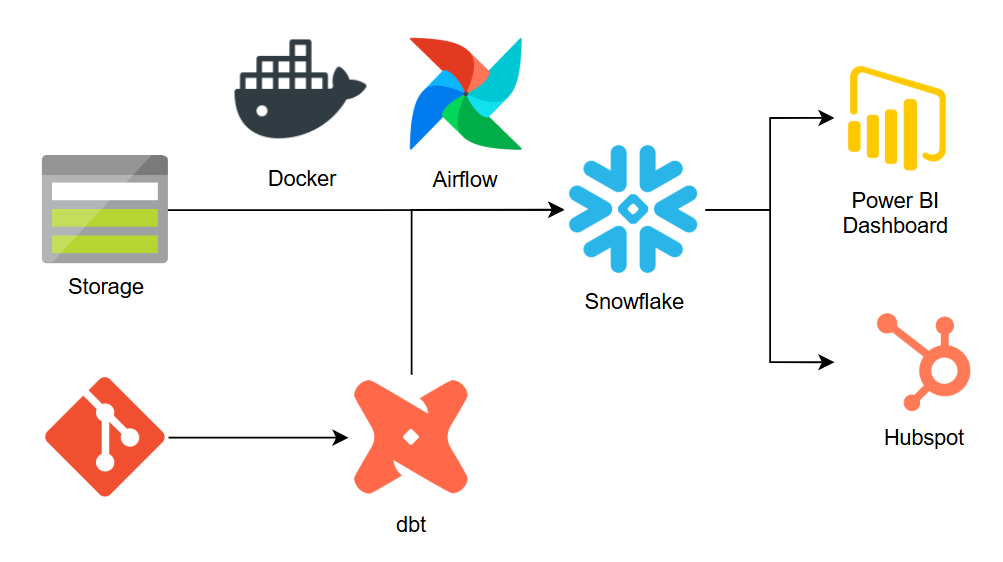
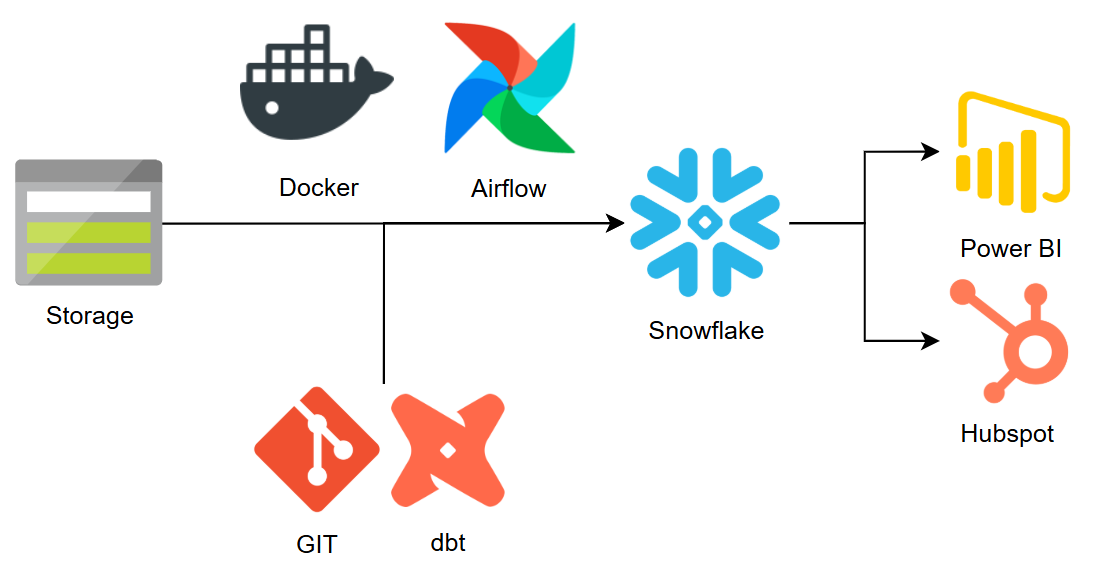
Updated colour + dark theme

diff --git a/src/components/ContactSection.vue b/src/components/ContactSection.vue
@@ -3,24 +3,65 @@
     <div class="max-w-7xl mx-auto px-4 sm:px-6 lg:px-8">
       <h2 class="section-title">Get in Touch</h2>
       <div class="max-w-2xl mx-auto">
-        <form class="space-y-6">
+        <form 
+          class="space-y-6" 
+          data-netlify="true"
+          data-netlify-recaptcha="true"
+          name="contact"
+          method="POST"
+          @submit="handleSubmit"
+        >
+          <input type="hidden" name="form-name" value="contact" />
+          
+          <div v-if="formSubmitted" class="p-4 bg-green-100 text-green-700 rounded-lg">
+            Thank you for your message! I'll get back to you soon.
+          </div>
+          
+          <div v-if="formError" class="p-4 bg-red-100 text-red-700 rounded-lg">
+            Sorry, there was an error sending your message. Please try again.
+          </div>
+
           <div>
             <label for="name" class="block text-sm font-medium mb-2">Name</label>
-            <input type="text" id="name" name="name"
-              class="w-full px-4 py-2 rounded-lg border border-gray-300 dark:border-gray-600 bg-white dark:bg-gray-800 focus:ring-2 focus:ring-primary-500 focus:border-transparent">
+            <input 
+              type="text" 
+              id="name" 
+              name="name"
+              required
+              class="w-full px-4 py-2 rounded-lg border border-gray-300 dark:border-gray-600 bg-white dark:bg-gray-800 focus:ring-2 focus:ring-primary-500 focus:border-transparent"
+            >
           </div>
+          
           <div>
             <label for="email" class="block text-sm font-medium mb-2">Email</label>
-            <input type="email" id="email" name="email"
-              class="w-full px-4 py-2 rounded-lg border border-gray-300 dark:border-gray-600 bg-white dark:bg-gray-800 focus:ring-2 focus:ring-primary-500 focus:border-transparent">
+            <input 
+              type="email" 
+              id="email" 
+              name="email"
+              required
+              class="w-full px-4 py-2 rounded-lg border border-gray-300 dark:border-gray-600 bg-white dark:bg-gray-800 focus:ring-2 focus:ring-primary-500 focus:border-transparent"
+            >
           </div>
+          
           <div>
             <label for="message" class="block text-sm font-medium mb-2">Message</label>
-            <textarea id="message" name="message" rows="4"
-              class="w-full px-4 py-2 rounded-lg border border-gray-300 dark:border-gray-600 bg-white dark:bg-gray-800 focus:ring-2 focus:ring-primary-500 focus:border-transparent"></textarea>
+            <textarea 
+              id="message" 
+              name="message" 
+              rows="4"
+              required
+              class="w-full px-4 py-2 rounded-lg border border-gray-300 dark:border-gray-600 bg-white dark:bg-gray-800 focus:ring-2 focus:ring-primary-500 focus:border-transparent"
+            ></textarea>
           </div>
-          <button type="submit"
-            class="w-full bg-primary-600 text-white py-3 px-6 rounded-lg hover:bg-primary-700 transition-colors">
+          
+          <div class="mb-4">
+            <div data-netlify-recaptcha="true"></div>
+          </div>
+          
+          <button 
+            type="submit"
+            class="w-full bg-primary-600 text-white py-3 px-6 rounded-lg hover:bg-primary-700 transition-colors"
+          >
             Send Message
           </button>
         </form>
@@ -28,3 +69,33 @@
     </div>
   </section>
 </template>
+
+<script setup lang="ts">
+import { ref } from 'vue'
+
+const formSubmitted = ref(false)
+const formError = ref(false)
+
+const handleSubmit = async (e: Event) => {
+  e.preventDefault()
+  try {
+    const form = e.target as HTMLFormElement
+    const formData = new FormData(form)
+    
+    const response = await fetch('/', {
+      method: 'POST',
+      headers: { 'Content-Type': 'application/x-www-form-urlencoded' },
+      body: new URLSearchParams(formData as any).toString()
+    })
+    
+    if (response.ok) {
+      formSubmitted.value = true
+      form.reset()
+    } else {
+      formError.value = true
+    }
+  } catch (error) {
+    formError.value = true
+  }
+}
+</script>

diff --git a/src/components/AboutSection.vue b/src/components/AboutSection.vue
@@ -2,49 +2,44 @@
   <section id="about" class="bg-gray-800">
     <div class="max-w-7xl mx-auto px-4 sm:px-6 lg:px-8">
       <h2 class="section-title">About me</h2>
-      <div class="grid md:grid-cols-2 gap-12 items-center">
-        <div class="space-y-6">
-          <div class="relative w-48 h-48 mx-auto mb-8 md:hidden">
-            <img src="/src/assets/profile.jpg" alt="Anne's Profile" class="rounded-full w-full h-full object-cover">
-            <div class="absolute inset-0 bg-primary-500 opacity-30 rounded-full"></div>
-          </div>
-          <p class="text-lg text-gray-300">
+      <div class="grid md:grid-cols-[3fr_1fr] gap-16 items-start py-8">
+        <div class="space-y-8">
+          <p class="text-lg text-gray-300 leading-relaxed">
             With a master in Molecular Medicine, Anne had a strong analytical background.
             Applying it to the Data Engineering field, she loved to solve issues at the core.
             Working in the Dutch market as a consultant, she gained valuable experience and knowledge
             in a handful of domains. 
             With an interest for sustainability and a international background, she became the Business 
             Intelligence lead for a Solar Startup in Berlin and later a Data Engineer for a large consultancy.
-            
           </p>
-          <p class="text-lg text-gray-300">
+          <p class="text-lg text-gray-300 leading-relaxed">
             With her broad experience, she is now on the solo journey as a freelancer who strives to 
             get you the data insights you need for your business to excel. Integrating
-            all your data into one centralized data platform, I implement Data as a Service (Daas)
+            all your data into one centralized data platform, I implement Data as a Service (DaaS)
             to work for you. From data to dashboard, she will get you the insights you need.
           </p>
         </div>
-        <div class="hidden md:block">
-          <div class="relative w-64 h-64 mx-auto">
-            <img src="/src/assets/profile.jpg" alt="Anne's Profile" class="rounded-full w-full h-full object-cover">
-            <div class="absolute inset-0 bg-primary-500 opacity-10 rounded-full"></div>
+        <div>
+          <div class="relative w-32 md:w-40 h-32 md:h-40 mx-auto">
+            <img src="/src/assets/profile.jpg" alt="Anne's Profile" class="rounded-full w-full h-full object-cover shadow-lg">
+            <div class="absolute inset-0 opacity-20 rounded-full"></div>
           </div>
-          <div class="grid grid-cols-2 gap-6 mt-8">
-            <div class="card">
-              <h3 class="text-xl font-semibold mb-2">6+ years</h3>
-              <p class="text-gray-400">Experience</p>
+          <div class="hidden md:grid grid-cols-2 gap-4 mt-8">
+            <div class="card p-4 text-center">
+              <h3 class="text-xl font-semibold mb-1">6+ years</h3>
+              <p class="text-gray-400 text-sm">Experience</p>
             </div>
-            <div class="card">
-              <h3 class="text-xl font-semibold mb-2">5</h3>
-              <p class="text-gray-400">Countries</p>
+            <div class="card p-4 text-center">
+              <h3 class="text-xl font-semibold mb-1">5</h3>
+              <p class="text-gray-400 text-sm">Countries</p>
             </div>
-            <div class="card">
-              <h3 class="text-xl font-semibold mb-2">6</h3>
-              <p class="text-gray-600">Projects</p>
+            <div class="card p-4 text-center">
+              <h3 class="text-xl font-semibold mb-1">6</h3>
+              <p class="text-gray-400 text-sm">Projects</p>
             </div>
-            <div class="card">
-              <h3 class="text-xl font-semibold mb-2">10+</h3>
-              <p class="text-gray-600">Tech Stack</p>
+            <div class="card p-4 text-center">
+              <h3 class="text-xl font-semibold mb-1">3</h3>
+              <p class="text-gray-400 text-sm">Industries</p>
             </div>
           </div>
         </div>

diff --git a/src/components/ProjectsSection.vue b/src/components/ProjectsSection.vue
@@ -2,48 +2,47 @@
 const projects = [
   {
     title: 'Data lakehouse development',
-    description: 'Led the migration of an on-premise data warehouse to Snowflake, implementing modern data modeling practices using dbt.',
-    subdescription: 'Built Power BI dashboards.',
-    technologies: ['Snowflake', 'dbt', 'Python', 'Airflow', 'Docker'],
-    metrics: 'Improved query performance by 80%',
-    image: '/src/assets/.png'
+    description: 'Developed a Gen3 data lakehouse in Databricks using Delta tables, \
+      optimizing Amazon APIs to enhance performance and enable efficient data ingestion.',
+    subdescription: 'Proof of concept utilizing AEP elements for CI/CD  <a href="https://medium.com/@rodenburg.bi/solving-aep-object-management-in-multiple-sandboxes-through-code-882b23ce5f18" target="_blank" class="text-moss-500 hover:underline">Check out the blog here</a>.',
+    technologies: ['Databricks', 'Adobe Experience Platform', 'Azure Data Factory', 'Delta tables', 'DevOps', 'GIT', 'Power BI', 'API enhancement'],
+    metrics: 'Improved workflow processes by 80%',
+    image: '/src/assets/Gen3_data_platform.png'
   },
   {
     title: 'Greenfield Data Warehouse',
     description: 'Led the migration of an on-premise data warehouse to Snowflake, whilst \
     also restructuring the data model to include best practices and data goverance using dbt.',
-    subdescription: 'Implemented automated feedback for CRM tools and built Power BI dashboards.',
+    subdescription: 'Implemented automated feedback for CRM tools',
     technologies: ['Snowflake', 'SQL', 'dbt', 'Azure ', 'Airflow', 'GIT', 'Power BI', 'Docker'],
-    metrics: 'Reduced data processing latency by 60%',
+    metrics: 'Established the Business Intelligence Department',
     image: '/src/assets/Gen2_data_platform.png'
   },
 ]
 </script>
 
 <template>
-  <section id="projects" class="bg-gray-800">
+  <section id="projects" class="bg-gray-800 py-24">
     <div class="max-w-7xl mx-auto px-4 sm:px-6 lg:px-8">
       <h2 class="section-title">Featured Projects</h2>
       <div class="grid md:grid-cols-2 lg:grid-cols-2 gap-8">
         <div v-for="(project, index) in projects" :key="index" 
-          class="card">
-          <h3 class="text-xl font-semibold mb-3">{{ project.title }}</h3>
+          class="card p-8">
+          <h3 class="text-2xl font-semibold mb-3">{{ project.title }}</h3>
+          <p class="text-moss-500 font-medium text-lg mb-4">
+            {{ project.metrics }}
+          </p>
           <p class="text-gray-300 mb-4">
             {{ project.description }}
           </p>
-          <p class="text-gray-300 mb-4">
-            {{ project.subdescription }}
-          </p>
-          <img v-if="project.image" :src="project.image" :alt="project.title" class="w-full h-80 object-cover rounded-lg mb-4">
-          <div class="flex flex-wrap gap-2 mb-4">
+          <p class="text-gray-300 mb-4" v-html="project.subdescription"></p>
+          <img v-if="project.image" :src="project.image" :alt="project.title" class="w-full h-70 object-cover rounded-lg mb-4">
+          <div class="flex flex-wrap gap-3 mb-5">
             <span v-for="tech in project.technologies" :key="tech"
-              class="bg-gray-700 rounded text-sm">
+              class="bg-gray-700 rounded-lg px-4 py-2 text-sm">
               {{ tech }}
             </span>
           </div>
-          <p class="text-primary-600 font-medium">
-            {{ project.metrics }}
-          </p>
         </div>
       </div>
     </div>

diff --git a/src/components/_NavigationBar.vue b/src/components/_NavigationBar.vue
@@ -29,7 +29,7 @@ watch(y, (value) => {
             <a href="#about" class="text-moss-300 hover:text-moss-200 transition-colors">About</a>
             <a href="#skills" class="text-moss-300 hover:text-moss-200 transition-colors">Skills</a>
             <a href="#projects" class="text-moss-300 hover:text-moss-200 transition-colors">Projects</a>
-            <a href="#experience" class="text-moss-300 hover:text-moss-200 transition-colors">Experience</a>
+            <!-- <a href="#experience" class="text-moss-300 hover:text-moss-200 transition-colors">Experience</a> -->
             <a href="#contact" class="text-moss-300 hover:text-moss-200 transition-colors">Contact</a>
           </div>
 

diff --git a/src/components/HeroSection.vue b/src/components/HeroSection.vue
@@ -10,7 +10,7 @@ const technologies = [
       <div class="text-center">
         <h1 class="text-4xl sm:text-6xl font-bold text-gray-900 dark:text-white mb-6">
           Rodenburg 
-          <span class="text-primary-600">Business Intelligence</span>
+          <span class="text-moss-500">Business Intelligence</span>
         </h1>
         <p class="text-xl text-gray-600 dark:text-gray-300 mb-8 max-w-2xl mx-auto">
           Transforming raw data into actionable insights through robust data pipelines

diff --git a/src/App.vue b/src/App.vue
@@ -1,5 +1,5 @@
 <script setup lang="ts">
-import TheNavbar from './components/TheNavbar.vue'
+import TheNavbar from './components/_NavigationBar.vue'
 import HeroSection from './components/HeroSection.vue'
 import AboutSection from './components/AboutSection.vue'
 import SkillsSection from './components/SkillsSection.vue'
